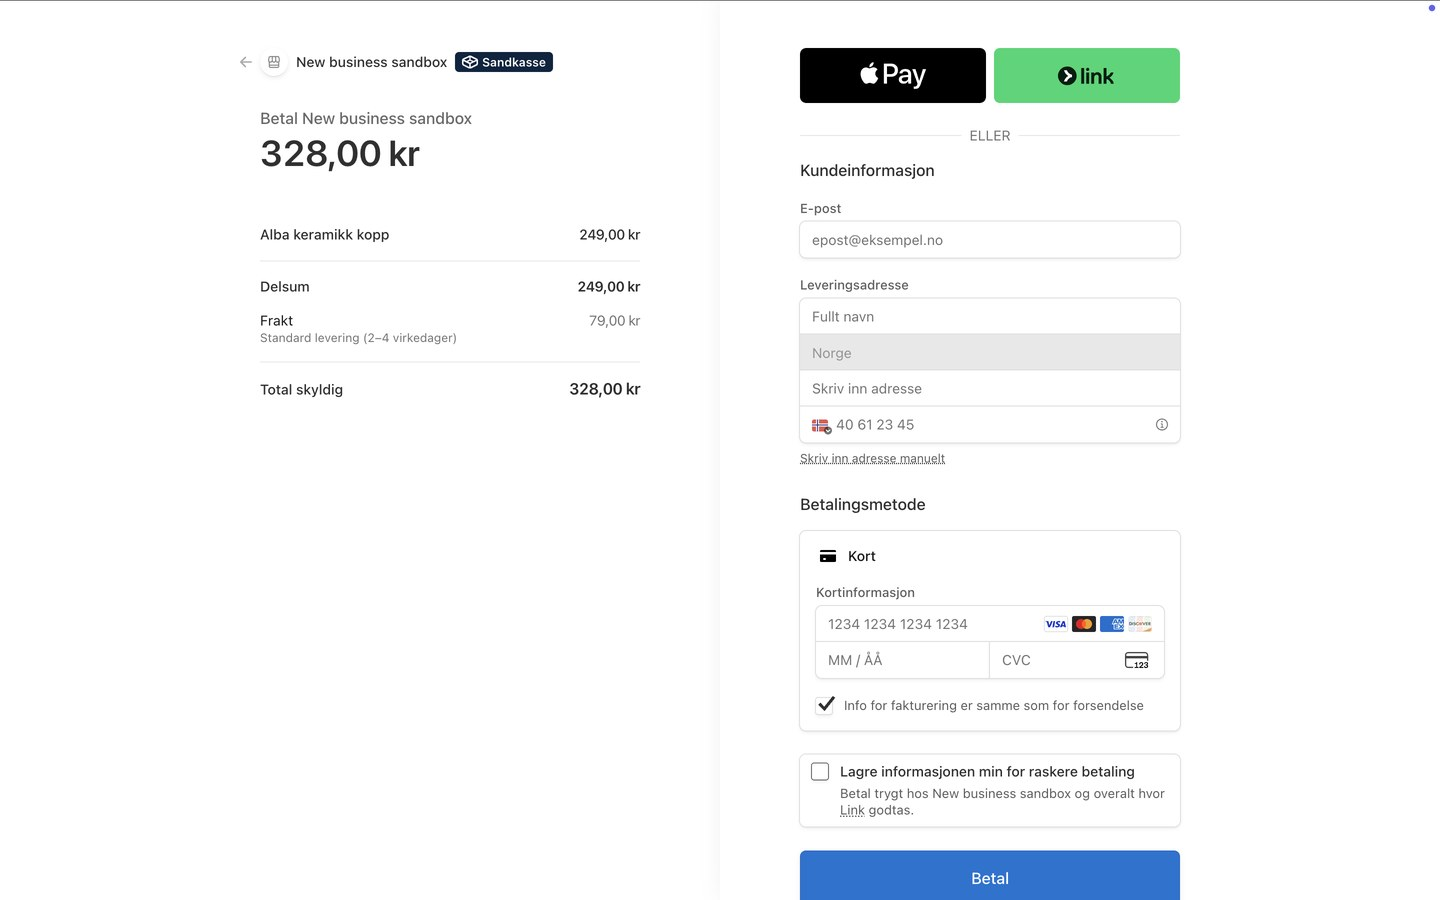
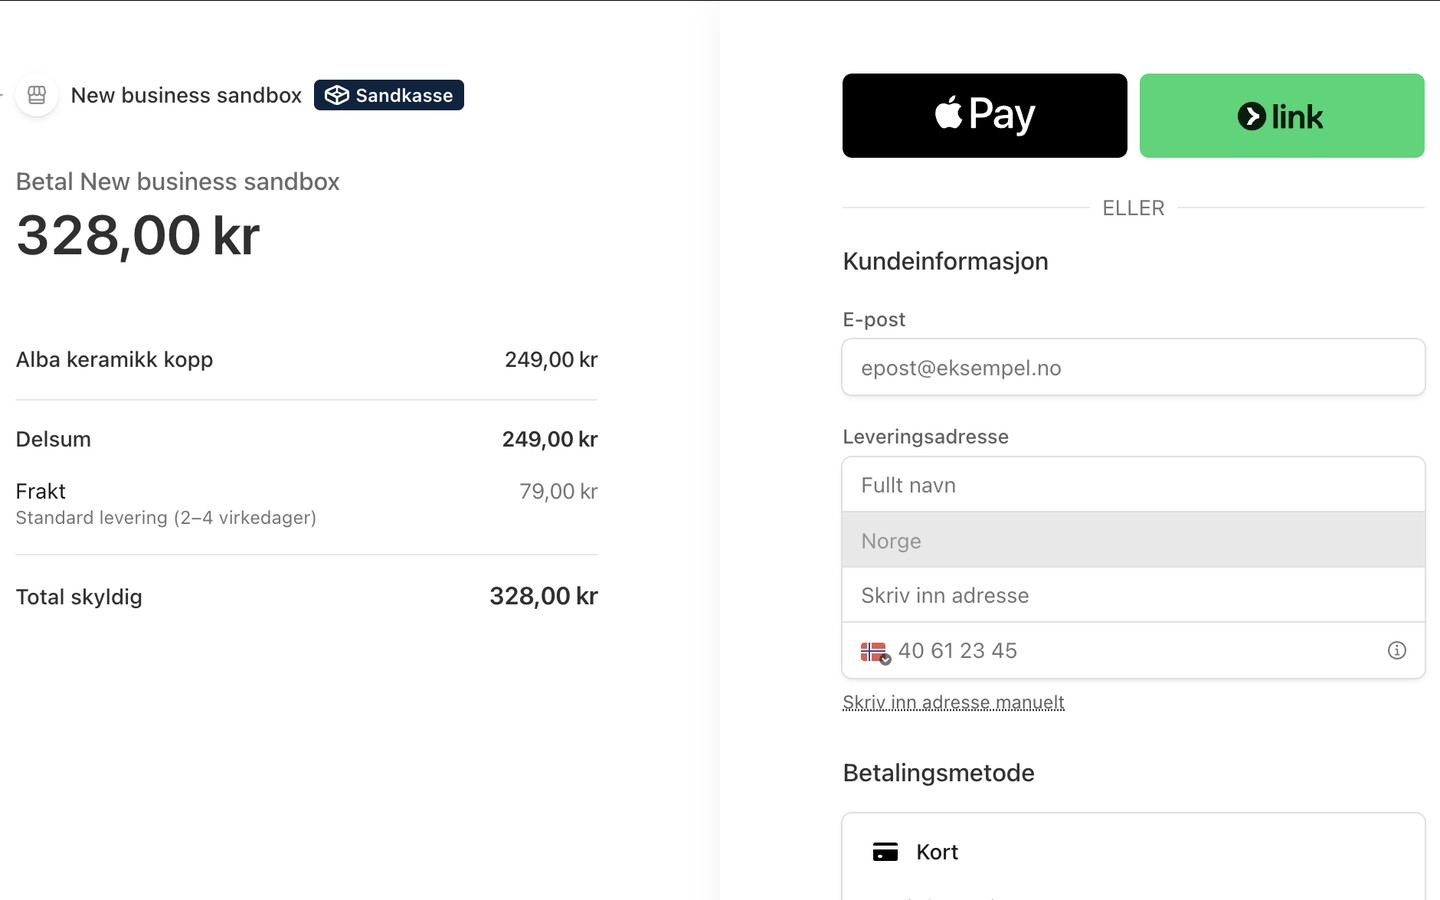
Gjør README-skjermbildene tydeligere
Vis hvert skjermbilde i full bredde, og bruk tettere utsnitt med mer relevant grensesnittinnhold.

diff --git a/README.md b/README.md
@@ -20,16 +20,10 @@ Jeg bygde Nordly for å bli bedre på backend, og på det som faktisk er vanskel
 
 Her er fire skjermbilder av grensesnittet, fra forsiden og produktsiden til handlekurven og Stripe Checkout.
 
-<table>
-  <tr>
-    <td width="50%"><img src="docs/screenshots/readme/homepage.jpg" alt="Forsiden til Nordly" width="420" height="263" /></td>
-    <td width="50%"><img src="docs/screenshots/readme/product.jpg" alt="Produktside for Alba keramikk kopp" width="420" height="263" /></td>
-  </tr>
-  <tr>
-    <td width="50%"><img src="docs/screenshots/readme/cart.jpg" alt="Handlekurv med Alba keramikk kopp og frakt" width="420" height="263" /></td>
-    <td width="50%"><img src="docs/screenshots/readme/checkout.jpg" alt="Stripe Checkout med ordreoppsummering" width="420" height="263" /></td>
-  </tr>
-</table>
+<p><img src="docs/screenshots/readme/homepage.jpg" alt="Forsiden til Nordly" width="100%" /></p>
+<p><img src="docs/screenshots/readme/product.jpg" alt="Produktside for Alba keramikk kopp" width="100%" /></p>
+<p><img src="docs/screenshots/readme/cart.jpg" alt="Handlekurv med Alba keramikk kopp og frakt" width="100%" /></p>
+<p><img src="docs/screenshots/readme/checkout.jpg" alt="Stripe Checkout med ordreoppsummering" width="100%" /></p>
 
 ## Funksjoner
 
